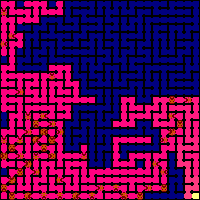
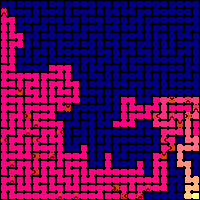
implémentaiton de mpi

diff --git a/ants.py b/ants.py
@@ -210,7 +210,12 @@ class Colony:
         [pheromones.mark(self.historic_path[i, self.age[i], :],
                          [has_north_exit[i], has_east_exit[i], has_west_exit[i], has_south_exit[i]], old_pheromone) for i in range(self.directions.shape[0])]
         
-        pheromones.pheromon = comm.allreduce(old_pheromone, op=MPI.MAX)
+
+        #réunion des phéromones entre les processus
+        
+        old_pheromone_flat = old_pheromone.flatten()
+        comm.Allreduce(MPI.IN_PLACE, old_pheromone_flat, op=MPI.MAX)
+        pheromones.pheromon = old_pheromone_flat.reshape(old_pheromone.shape)
         return food_counter
 
     def display(self, screen):
@@ -221,9 +226,12 @@ if __name__ == "__main__":
     import sys
     import time
 
+    #initialisation des processus
     comm = MPI.COMM_WORLD.Dup()
     nbp = comm.size
     rank = comm.rank
+
+    print(f"Hello from {rank} of {nbp}")
 
     pg.init()
     size_laby = 25, 25
@@ -232,7 +240,9 @@ if __name__ == "__main__":
 
     resolution = size_laby[1]*8, size_laby[0]*8
     screen = pg.display.set_mode(resolution)
-    nb_ants = size_laby[0]*size_laby[1]//4
+    nb_ants = (size_laby[0]*size_laby[1]//4)//nbp
+    if (rank < (size_laby[0]*size_laby[1]//4)%nbp):
+        nb_ants += 1
     max_life = 500
     if len(sys.argv) > 3:
         max_life = int(sys.argv[3])
